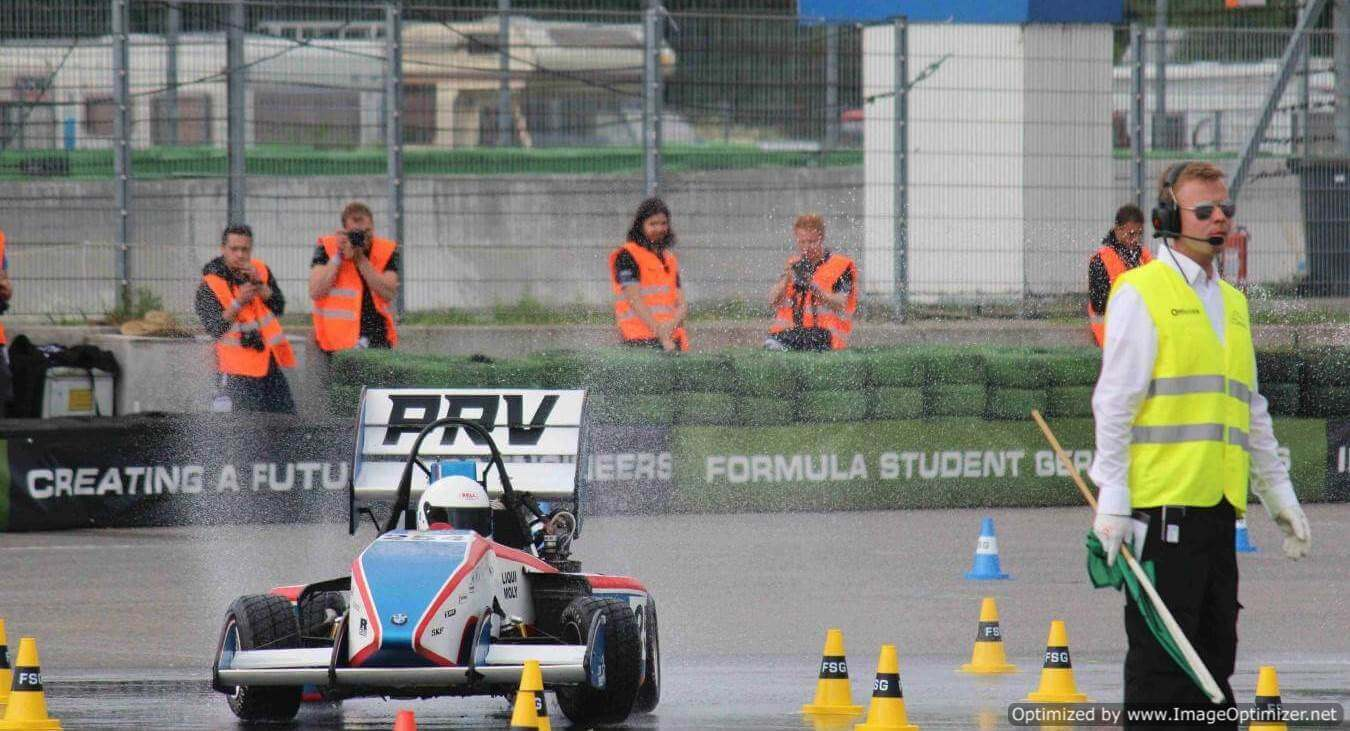
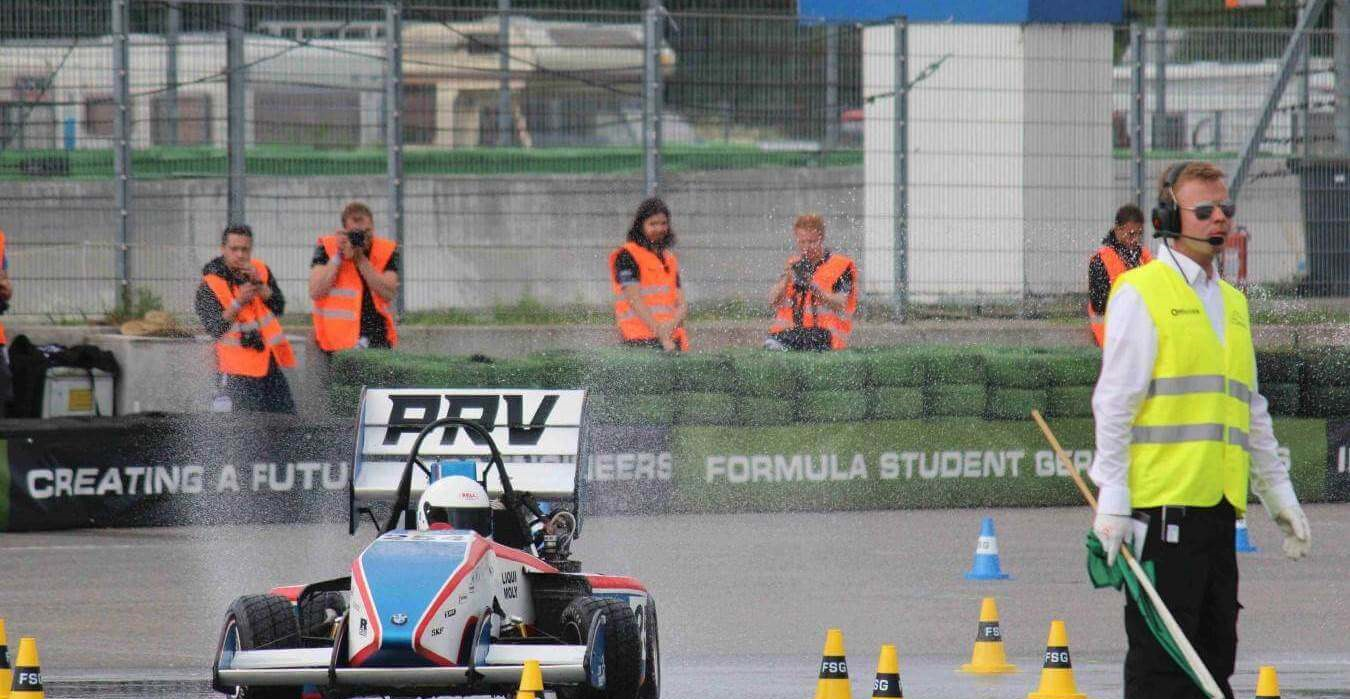
fix: content alignment issues

diff --git a/src/styles/FollowPageCard.module.css b/src/styles/FollowPageCard.module.css
@@ -4,10 +4,12 @@
   overflow: hidden;
   width: 300px;
   font-family: Arial, sans-serif;
+  margin: 0 auto;
 }
 
 .header {
   display: flex;
+  align-items: center;
   padding: 10px;
   background-color: #f5f5f5;
 }
@@ -25,28 +27,6 @@
 .title span {
   color: #666;
   font-size: 14px;
-}
-
-.buttons {
-  display: flex;
-  justify-content: space-around;
-  padding: 10px;
-}
-
-.followButton,
-.shareButton {
-  background-color: #1877f2;
-  color: #fff;
-  border: none;
-  padding: 8px 16px;
-  border-radius: 4px;
-  cursor: pointer;
-  font-size: 14px;
-}
-
-.shareButton {
-  background-color: #ccc;
-  color: #333;
 }
 
 .socialButtons {
@@ -74,4 +54,42 @@
 
 .twitter {
   background-image: url('/images/twitter-icon.png'); /* Replace with the actual path to the Twitter icon */
+}
+
+@media (max-width: 600px) {
+  .card {
+    width: 90%;
+    max-width: 280px;
+    padding: 10px;
+  }
+
+  .header {
+    flex-direction: column;
+    align-items: center;
+    text-align: center;
+  }
+
+  .profileImage {
+    margin-right: 0;
+    margin-bottom: 10px;
+  }
+
+  .title h1 {
+    font-size: 16px;
+  }
+
+  .title span {
+    font-size: 12px;
+  }
+
+  .socialButtons {
+    flex-direction: row;
+    justify-content: center;
+    gap: 8px;
+  }
+
+  .socialButton {
+    width: 24px;
+    height: 24px;
+  }
 }

diff --git a/src/app/page.tsx b/src/app/page.tsx
@@ -47,8 +47,8 @@ export default function HomePage() {
         <div className='main-ka-baap'>
           <main className='container' style={{ width: '75%', margin: 'auto' }}>
             <section id='firstsection'>
-              <div className='grid-container-fluid margin-top-70 margin-bottom-50'>
-                <div className='grid-row'>
+              <div className='grid-container-fluid margin-top-70 margin-bottom-60'>
+                <div className='grid-row pb-4 md:pb-1'>
                   <div className='column-8 aboutusdiv'>
                     <h3 className='text-left'>
                       <b>
@@ -153,7 +153,7 @@ export default function HomePage() {
           <section style={{ color: 'black', width: '100%', margin: 'auto' }}>
             <div
               className='text-align-left text-bold text-3xl'
-              style={{ marginLeft: '8%' }}
+              style={{ marginLeft: '13%' }}
             >
               Recent Activities
             </div>
